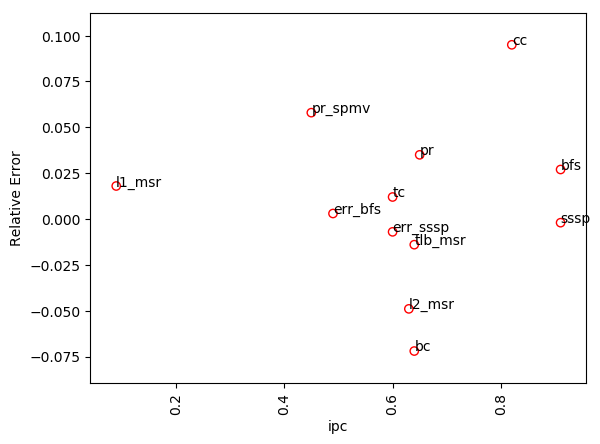
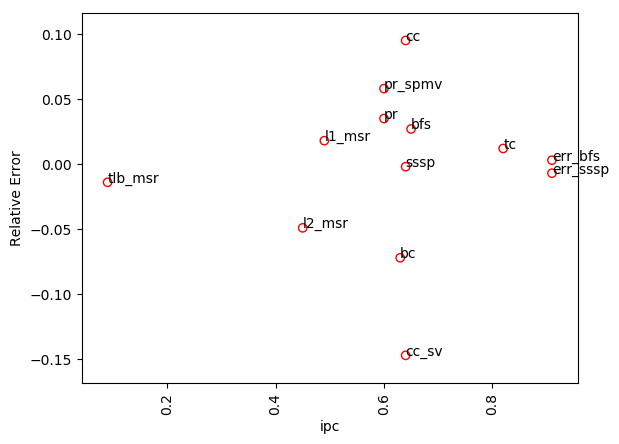
fixed a bug

diff --git a/src/graph_relative_error.py b/src/graph_relative_error.py
@@ -91,23 +91,26 @@ def main():
     with open(sys.argv[len(sys.argv) - 1]) as f:
         for line in f:
             str_list = line.split(",")
-            for i in range(1,len(str_list)):
+            for i in range(0,len(str_list)):
                 ipc.append(float(str_list[i]))
             
 
     fig, ax = plt.subplots(nrows=2, ncols=4)
-    graph_relative_error("l1_icache",error, l1_icache,names)
-    graph_relative_error("cycles",error, cycles,names)
-    graph_relative_error("ins",error, ins,names)
-    graph_relative_error("l2",error, l2,names )
-    graph_relative_error("tlb_data",error, tlb_data,names)
-    graph_relative_error("l1_dcache",error, l1_dcache,names)
-    graph_relative_error("tlb_ins",error, tlb_ins,names)
-    graph_relative_error("l3",error, l3,names)
+#     graph_relative_error("l1_icache",error, l1_icache,names)
+#     graph_relative_error("cycles",error, cycles,names)
+#     graph_relative_error("ins",error, ins,names)
+#     graph_relative_error("l2",error, l2,names )
+#     graph_relative_error("tlb_data",error, tlb_data,names)
+#     graph_relative_error("l1_dcache",error, l1_dcache,names)
+#     graph_relative_error("tlb_ins",error, tlb_ins,names)
+#     graph_relative_error("l3",error, l3,names)
 
     graph_relative_error("ipc",error, ipc,names)
 
-    graph_ans_output(names, ans, outputs)
+#     for i in range(0, len(error)):
+#         print("error: " + str(error[i]) + "ipc: " + str(ipc[i]))
+
+#     graph_ans_output(names, ans, outputs)
 
 main()
 
